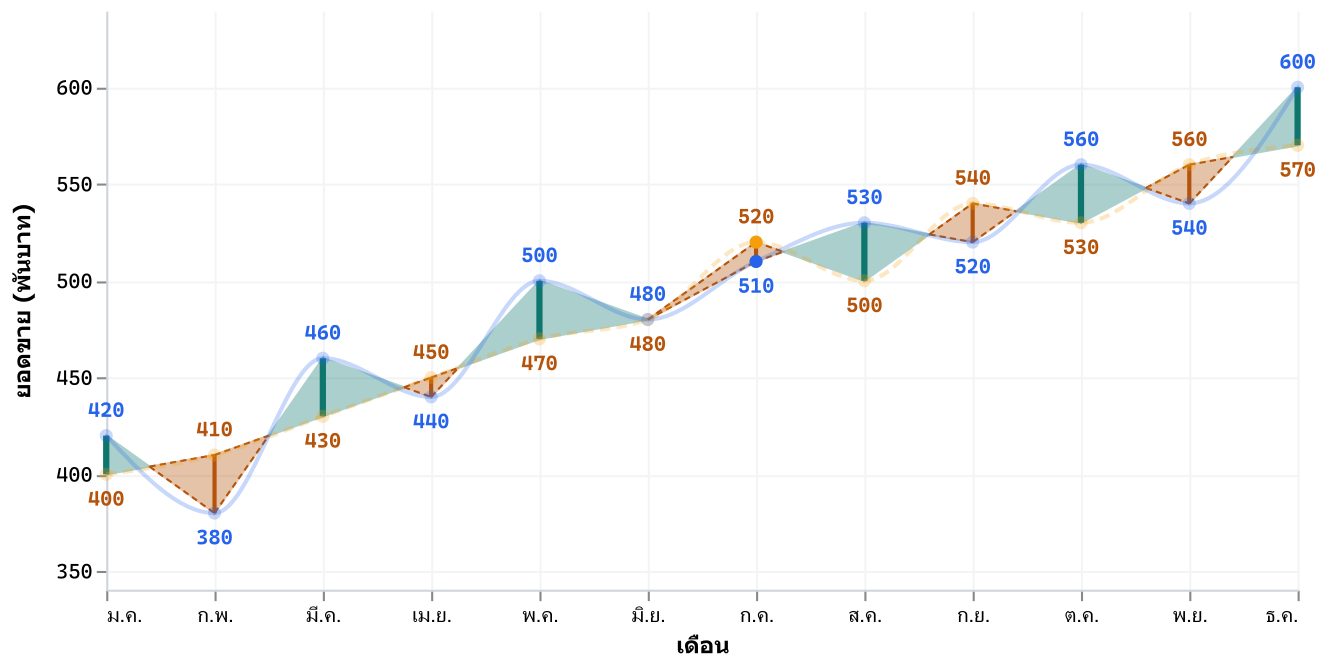
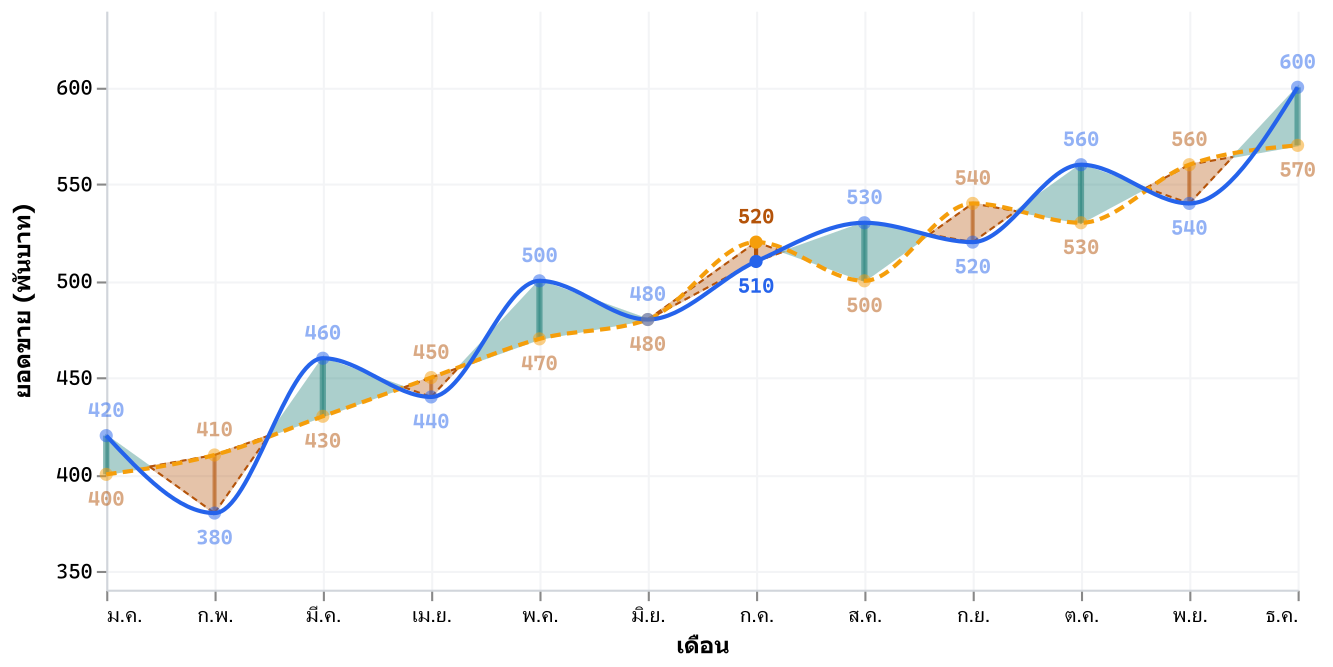
Highlight styling rev 5 per user request, verified on real Deneb
- Lines and variance area never dim; points, connector and data labels of
  non-highlighted months dim to 0.5 (points/labels per own measure)
- Generator strips connector/label opacity until CH08-S01; HL tests cover
  points, connector, labels and lines in 8 scenarios (388/388)
- Real Deneb: multi-select May/Jul/Aug highlight renders as intended
- Codex review R14 PASS

Changed region(s): [[0.5536, 0.06, 0.9842, 0.4798], [0.2768, 0.3598, 0.5536, 0.6597], [0.0615, 0.4798, 0.2768, 0.8096]]

diff --git a/eBook-DualLineVariance/review/PHASE2_WORKSHOP_STEPS.md b/eBook-DualLineVariance/review/PHASE2_WORKSHOP_STEPS.md
@@ -25,7 +25,7 @@
 | CH06-S03 | [`CH06-S03-connector-rule.vl.json`](../specs/steps/CH06-S03-connector-rule.vl.json) | + `connector_rule` | 6 | |
 | CH07-S01 | [`CH07-S01-tooltip.vl.json`](../specs/steps/CH07-S01-tooltip.vl.json) | `point_actual_hit_target` เพิ่ม `calculate` 3 ตัว + `tooltip` | 7 | |
 | CH07-S02 | [`CH07-S02-data-labels.vl.json`](../specs/steps/CH07-S02-data-labels.vl.json) | + `label_actual`, `label_reference` (thinning จาก signal `width`) | 7 | Group A "ลดการชน" ไม่รับประกัน |
-| CH08-S01 | [`CH08-S01-cross-highlight-opacity.vl.json`](../specs/steps/CH08-S01-cross-highlight-opacity.vl.json) | เพิ่ม `opacity` condition จาก `Actual__highlightStatus`/`Reference__highlightStatus` ใน 4 layer | 8 | **= final spec** ชื่อ field verified บน Deneb จริง (T19-01); เงื่อนไขจางแก้เป็น rev 4 ตามค่าจริงที่ Deneb ส่ง (Design Plan 2.2.3) — รอทดสอบซ้ำบน Deneb |
+| CH08-S01 | [`CH08-S01-cross-highlight-opacity.vl.json`](../specs/steps/CH08-S01-cross-highlight-opacity.vl.json) | เพิ่ม `opacity` condition จาก `Actual__highlightStatus`/`Reference__highlightStatus` ใน 4 layer | 8 | **= final spec** ชื่อ field verified บน Deneb จริง (T19-01); รูปแบบจาง rev 5 (เส้นไม่จาง; จุด/connector/label เดือนอื่น 0.5 — Design Plan 2.2.3) — รอทดสอบบน Deneb; connector/label ของ CH06-S03/CH07-S02 ไม่มี opacity จนถึง CH08-S01 |
 
 บทที่ไม่มี Step JSON จาก prototype นี้:
 
@@ -44,7 +44,7 @@ npm install --prefix <tmp> vega@6 vega-lite@6
 VEGA_NODE_MODULES=<tmp>/node_modules node qa/scripts/run-workshop-step-tests.mjs
 ```
 
-ผล: **364/364 ผ่าน** (รวม HL-* 26 ข้อ: 8 สถานการณ์ highlight บน final spec + regression 2 ข้อ) (ผลเต็มใน [`qa/evidence/phase2-workshop-steps/run-output.txt`](../qa/evidence/phase2-workshop-steps/run-output.txt)) — ต่อ Step ตรวจ:
+ผล: **388/388 ผ่าน** (รวม HL-* 50 ข้อ: 8 สถานการณ์ highlight บน final spec ตรวจจุด/connector/label/เส้น + regression 2 ข้อ) (ผลเต็มใน [`qa/evidence/phase2-workshop-steps/run-output.txt`](../qa/evidence/phase2-workshop-steps/run-output.txt)) — ต่อ Step ตรวจ:
 
 1. `data` ผูกกับ `{"name": "dataset"}` และไม่มี `values` ค้าง (กันผู้อ่านวางข้อมูลทดสอบลง Deneb)
 2. ลำดับ layer เป็น subsequence ของ final spec, เก็บ layer ของ Step ก่อนหน้าครบ (cumulative), ชุด layer ตรงกับแผนการสอนที่เขียนแยกจาก generator (`EXPECTED_LAYERS`), manifest ตรงกับไฟล์จริง, ทุก layer เป็น **structural subset** ของ layer ชื่อเดียวกันใน final spec (ทุก property ต้องมีใน final ด้วยค่าเดียวกัน array ต้องเป็น subsequence ตามลำดับ) และ top-level property อื่นเท่ากับ final spec — ยืนยันด้วย negative test แล้วว่าถ้าใส่ `mark.tooltip = null` กลับเข้าไป test จะ FAIL

diff --git a/eBook-DualLineVariance/review/PHASE2_CODEX_REVIEW_PROMPT_R14.md b/eBook-DualLineVariance/review/PHASE2_CODEX_REVIEW_PROMPT_R14.md
@@ -1,0 +1,24 @@
+# Phase 2 review request รอบ 14 (สำหรับ Codex CLI)
+
+รอบ 13 `PASS` ([`qa/PHASE2_CODEX_VERDICT_R13.md`](../qa/PHASE2_CODEX_VERDICT_R13.md)) หลังจากนั้น spec rev 4 ทดสอบบน Deneb จริงแล้วจางถูกต้อง (T19-07/08) แต่**ผู้ใช้ขอเปลี่ยนรูปแบบการจาง** → final spec rev 5 (ดู `git diff HEAD`) M-11 ยังเป็น Known limitation
+
+## คำขอผู้ใช้ (ไม่ต้องโต้แย้งเชิงนโยบาย ให้ตรวจว่าทำถูก)
+
+"ให้เส้นเชื่อมกับจุดของเดือนที่เลือกเข้ม เดือนอื่นจางลง 0.5 เส้นกราฟเหมือนเดิม" + "พื้นที่สีเหมือนเดิม แต่ป้ายตัวเลขเดือนที่เลือกเข้ม เดือนอื่นจาง"
+
+## การเปลี่ยนแปลง
+
+- final + static-test spec rev 5: line layers ไม่มี opacity; point_* และ label_* จาง 0.5 ตาม measure ของตัวเอง (เงื่อนไขเดียวกับ rev 4); connector_rule จาง 0.5 เมื่อ highlight active และไม่มี measure ใดของแถวถูก highlight
+- Generator: connector (CH06-S03) และ label (CH07-S02) ถูกตัด opacity จนถึง CH08-S01
+- Tests: HL-* ตรวจ point/connector/label/เส้น ครบ 8 สถานการณ์ + regression — 388/388 (`qa/evidence/phase2-workshop-steps/run-output.txt`, ภาพ `HL-observed-july-preview.png`)
+- Design Plan 2.2.3 (rev 5), Evidence T19 (rev 5 ยังไม่ทดสอบบน Deneb), Workshop steps doc
+
+## ขอให้ตรวจ
+
+1. rev 5 ตรงกับคำขอผู้ใช้ และเงื่อนไข connector/label ถูกต้องทุกสถานการณ์ (รวม label ที่ถูก thinning — datum ยังมี highlight fields หลัง transform หรือไม่)
+2. Step specs ยังเป็น structural subset และ CH08-S01 = final
+3. เอกสารไม่ overclaim (rev 5 ยังไม่ได้ทดสอบบน Deneb)
+
+รันซ้ำ: `VEGA_NODE_MODULES="C:/Users/MSI/AppData/Local/Temp/claude/D--DATA-Deneb-Course/e0eca914-7edf-4826-aab4-d1f1530c20da/scratchpad/node_modules" node qa/scripts/run-workshop-step-tests.mjs`
+
+ตอบในรูปแบบเดิม เป็นภาษาไทย

diff --git a/eBook-DualLineVariance/qa/PHASE2_CODEX_VERDICT_R14.md b/eBook-DualLineVariance/qa/PHASE2_CODEX_VERDICT_R14.md
@@ -1,0 +1,12 @@
+## Verdict: PASS
+
+ตรวจครบตามคำขอรอบ 14 แล้ว ไม่พบ Mandatory finding ใหม่
+
+- rev 5 ตรงตามคำขอผู้ใช้: เส้น Actual/Reference และพื้นที่สีไม่จาง; จุดและป้ายตัวเลขจางเหลือ 0.5 ตาม measure ของตนเอง; connector จางเมื่อ highlight active และไม่มี measure ใดของแถวนั้นถูก highlight
+- Label หลัง width-based thinning ยังเก็บ highlight fields ใน datum และให้ opacity ถูกต้องครบ 8 สถานการณ์
+- รันอิสระผ่าน **388 passed, 0 failed**
+- Step specs เป็น structural subset และ `CH08-S01 = final` ยกเว้น description
+- เอกสารไม่ overclaim: แยกชัดว่า rev 4 เคยทดสอบบน Deneb จริง แต่ rev 5 ผ่านเฉพาะ headless tests และยังไม่ได้ทดสอบบน Deneb
+- M-11 ยังคงเป็น Known limitation ตาม prompt
+
+พยายามบันทึกผลเป็น `qa/PHASE2_CODEX_VERDICT_R14.md` แล้ว แต่ workspace ถูกกำหนดเป็น read-only จึงไม่สามารถสร้างไฟล์ได้ ไม่มีไฟล์เดิมถูกแก้ไขครับ
